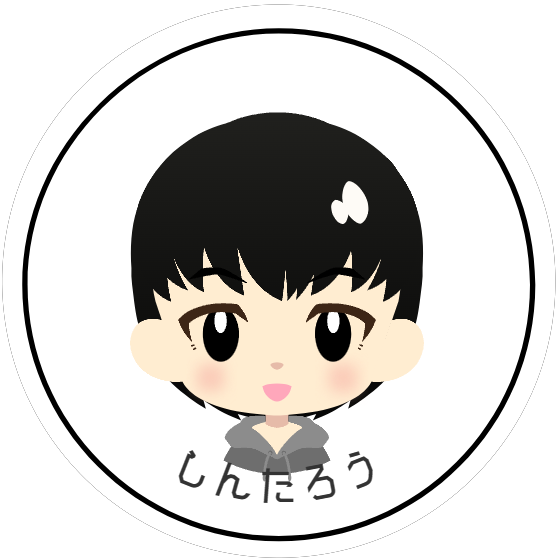
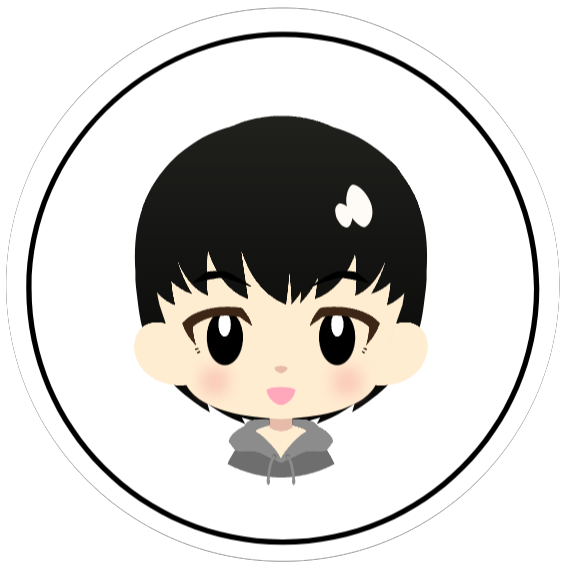
feat: プロフィール画面のデザイン完成

diff --git a/portfolio/src/components/profile.jsx b/portfolio/src/components/profile.jsx
@@ -1,13 +1,30 @@
 import Header from "./header";
 import Menu from "./menu";
+import { Link } from "react-router-dom";
 
 export default function Profile() {
     return(
         <div className="w-screen h-screen fixed">
             <Header/>
             <div className="w-full h-full px-7">
-                <div className="w-full h-3/4 flex items-center justify-center">
-                    <p className="text-xl text-center main-font">Profile</p>
+                <div className="w-full h-3/4">
+                    <div className="h-1/2 flex items-center justify-center">
+                        <img src="/profile.png" alt="" className="h-full p-3" />
+                    </div>
+                    <div className="h-1/2 border border-black rounded-lg p-3 flex flex-col items-start justify-start gap-5 main-font">
+                        <p className="text-lg">名前: <ruby>勝田<rt>かつた</rt></ruby>　<ruby>紳太郎<rt>しんたろう</rt></ruby></p>
+                        <p className="text-lg">趣味: カプセルトイ</p>
+                        <p className="text-lg">好きなプログラミング言語: JavaScript/TypeScript</p>
+                        <p className="text-lg">現在の目標:<br /> インフラができるようになりたい！</p>
+                        <div className="flex items-center justify-center gap-5">
+                            <Link target="_blank" to="https://github.com/sintaro-katuta">
+                                <img src="/github-mark.png" alt="" className="w-10 h-10" />
+                            </Link>                            
+                            <Link target="_blank" to="https://qiita.com/sintaro-katuta">
+                                <img src="/qiita.png" alt="" className="w-10 h-10" />
+                            </Link>    
+                        </div>
+                    </div>
                 </div>
                 <Menu />
             </div>

diff --git a/portfolio/src/components/menu.jsx b/portfolio/src/components/menu.jsx
@@ -3,7 +3,7 @@ import { Link } from "react-router-dom"
 export default function Menu(){
     const menu = ['Profile', 'Works', 'Blog']
     return(
-        <div className='flex justify-between'>
+        <div className='flex justify-between pt-3'>
             {menu.map((item) => (
                 <Link to={`/${item.toLowerCase()}`} className='bg-blue-500 hover:bg-blue-700 text-white font-bold py-2 px-4 rounded'>{item}</Link>
                 // <button className='bg-blue-500 hover:bg-blue-700 text-white font-bold py-2 px-4 rounded' onClick={() => move()} >{item}</button>                    

diff --git a/portfolio/public/index.html b/portfolio/public/index.html
@@ -1,5 +1,5 @@
 <!DOCTYPE html>
-<html lang="en">
+<html lang="ja">
   <head>
     <meta charset="utf-8" />
     <link rel="icon" href="%PUBLIC_URL%/favicon.ico" />
@@ -24,7 +24,7 @@
       work correctly both with client-side routing and a non-root public URL.
       Learn how to configure a non-root public URL by running `npm run build`.
     -->
-    <title>React App</title>
+    <title>ポートフォリオ</title>
   </head>
   <body>
     <noscript>You need to enable JavaScript to run this app.</noscript>
